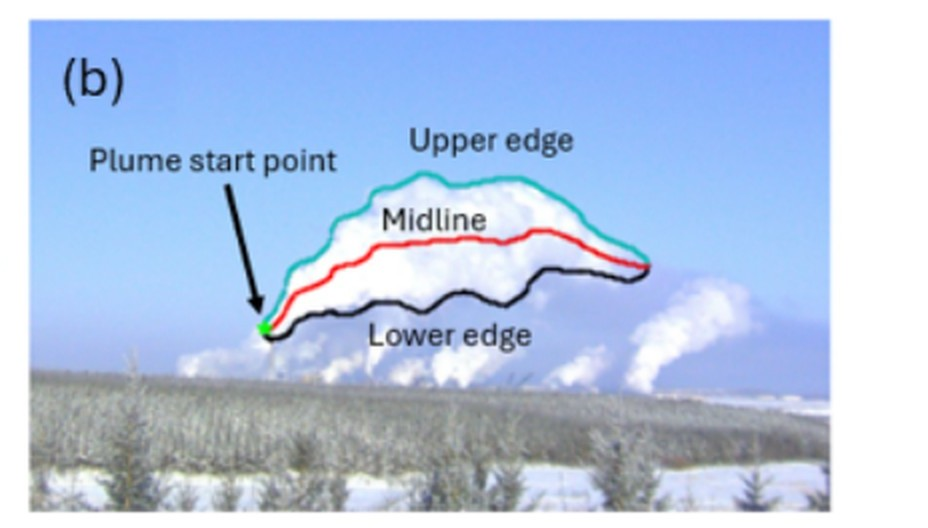
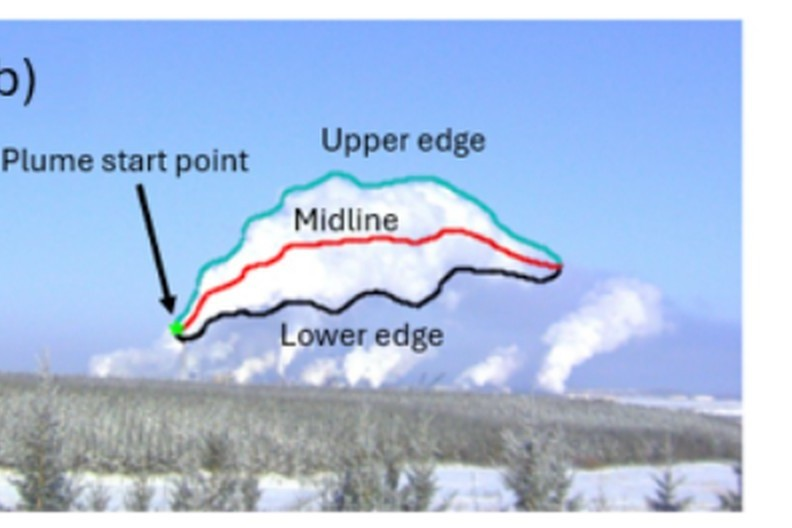
Home: show the newest papers (2026) in Publications; images for GeoPriorPC and GMD paper
Claude-Session: https://claude.ai/code/session_015v4UsBkBj3gtf98nHyMMHL

diff --git a/build.py b/build.py
@@ -260,9 +260,8 @@ def build():
         try: return int(str(p.get("year", 0))[:4])
         except ValueError: return 0
     _with_img = [p for p in papers if p.get("image")]
-    home_papers = sorted([p for p in _with_img if p.get("featured")], key=_py, reverse=True)
-    home_papers += [p for p in sorted(_with_img, key=_py, reverse=True) if p not in home_papers]
-    home_papers = home_papers[:3]
+    # Home page: the newest papers that have a picture; within the same year, featured ones first
+    home_papers = sorted(_with_img, key=lambda p: (_py(p), bool(p.get("featured"))), reverse=True)[:3]
     pub_types = [t for t in ("Journal", "Conference", "Preprint", "Dataset") if any(p["type"] == t for p in papers)]
 
     # Research
